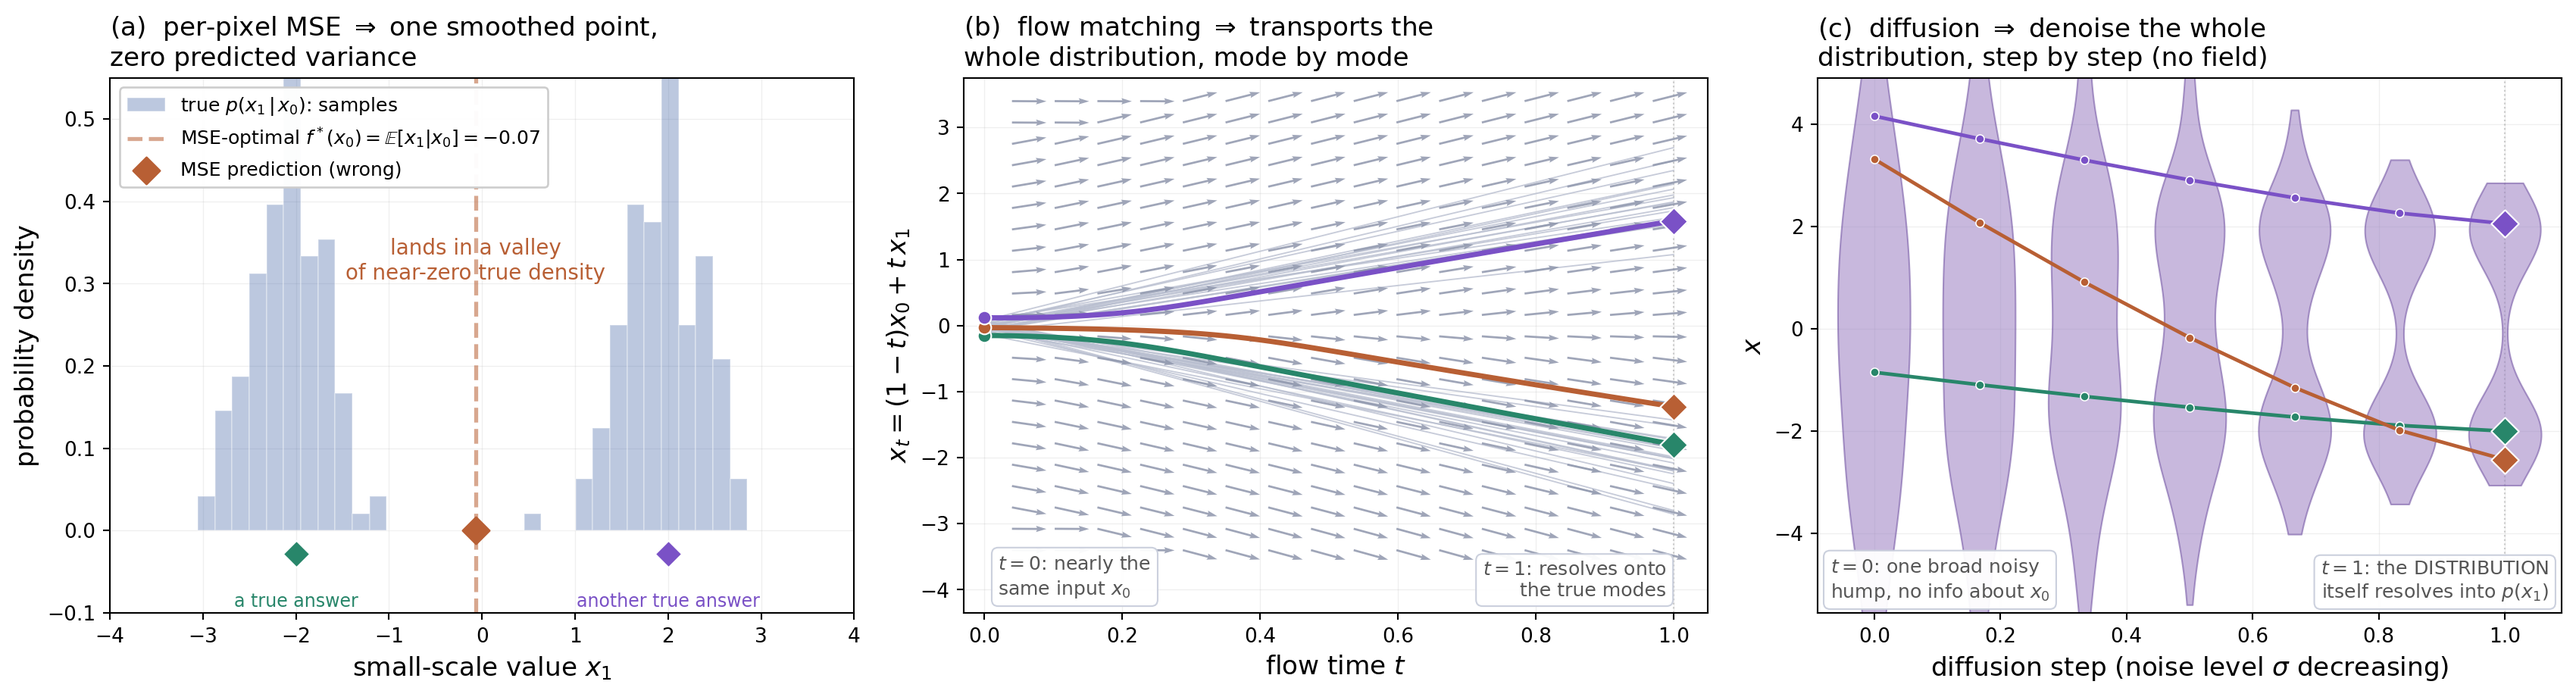
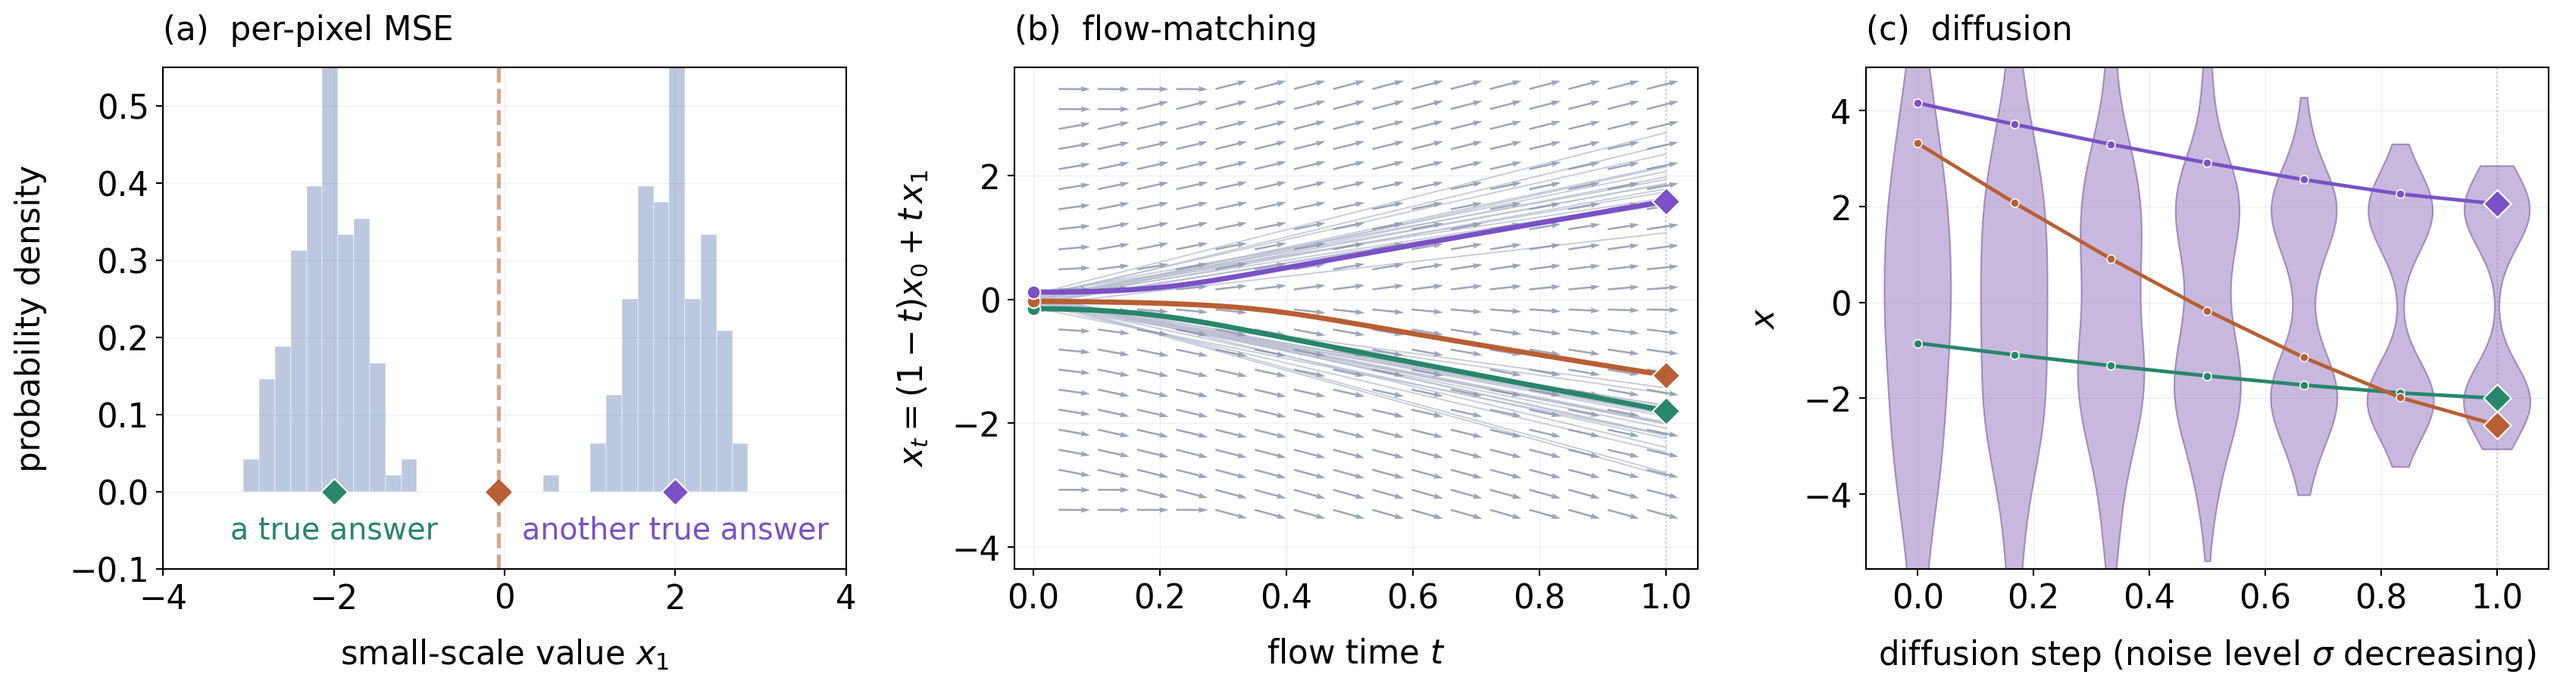
Resized distribution illustration plot

diff --git a/vis/plot_generative_objectives_toy.py b/vis/plot_generative_objectives_toy.py
@@ -1,4 +1,3 @@
-#!/usr/bin/env python3
 """Toy illustration: why per-pixel MSE regression, flow matching, and
 diffusion behave differently on the same one-to-many correction problem.
 
@@ -49,8 +48,11 @@ import matplotlib
 matplotlib.use("Agg")
 import matplotlib.pyplot as plt
 
-FS_AXIS, FS_LEGEND = 13, 9.5
-NOTE_KW = dict(fontsize=9.5, color="#555555",
+FS_AXIS, FS_LEGEND = 16.5, 13
+FS_TICK = FS_AXIS
+LABEL_PAD = 11
+TITLE_PAD = 14
+NOTE_KW = dict(fontsize=15, color="#555555",
                bbox=dict(fc="white", ec="#C9CEDC", lw=0.8,
                          boxstyle="round,pad=0.34", alpha=0.95))
 C_A, C_B = "#B85F34", "#3F63A6"
@@ -75,26 +77,20 @@ def panel_mse(ax, x1):
     mean_pred = x1.mean()
     ax.axvline(mean_pred, color=C_A, lw=2.0, ls="--", alpha=0.55, zorder=1,
                label=fr"MSE-optimal $f^*(x_0)=\mathbb{{E}}[x_1|x_0]={mean_pred:.2f}$")
-    ax.scatter([mean_pred], [0], color=C_A, s=90, zorder=5, marker="D",
+    ax.scatter([mean_pred], [0], color=C_A, s=70, zorder=5, marker="D",
                label="MSE prediction (wrong)")
-    # no leader line: it sat directly on top of the dashed MSE line and read as
-    # a second, solid orange line
-    ax.text(mean_pred, 0.30, "lands in a valley\nof near-zero true density",
-            ha="center", va="bottom", fontsize=10.5, color=C_A, zorder=6)
-    # the two TRUE possible answers -- either is right, their average is not --
-    # placed clearly BELOW the histogram baseline so the markers don't sit
-    # inside the bars' own footprint at y=0
     for mode_x, col in ((-2.0, C_MODE1), (2.0, C_MODE2)):
-        ax.scatter([mode_x], [-0.028], color=col, s=90, zorder=5, marker="D",
+        ax.scatter([mode_x], [0], color=col, s=90, zorder=5, marker="D",
                    edgecolor="white", lw=0.8, clip_on=False)
-    ax.text(-2.0, -0.075, "a true answer", color=C_MODE1, fontsize=9, ha="center", va="top")
-    ax.text(2.0, -0.075, "another true answer", color=C_MODE2, fontsize=9, ha="center", va="top")
-    ax.set_xlabel(r"small-scale value $x_1$", fontsize=FS_AXIS)
-    ax.set_ylabel("probability density", fontsize=FS_AXIS)
-    ax.set_title("(a)  per-pixel MSE $\\Rightarrow$ one smoothed point,\nzero predicted variance",
-                 fontsize=FS_AXIS, loc="left")
+    ax.text(-2.0, -0.03, "a true answer", color=C_MODE1, fontsize=15, ha="center", va="top")
+    ax.text(2.0, -0.03, "another true answer", color=C_MODE2, fontsize=15, ha="center", va="top")
+    ax.set_xlabel(r"small-scale value $x_1$", fontsize=FS_AXIS, labelpad=LABEL_PAD)
+    ax.set_ylabel("probability density", fontsize=FS_AXIS, labelpad=LABEL_PAD)
+    ax.tick_params(axis="both", labelsize=FS_TICK)
+    ax.set_title("(a)  per-pixel MSE",
+                 fontsize=FS_AXIS, loc="left", pad=TITLE_PAD)
     ax.set_xlim(-4, 4); ax.set_ylim(-0.10, 0.55)
-    ax.legend(fontsize=FS_LEGEND, loc="upper left", framealpha=0.97)
+    #ax.legend(fontsize=FS_AXIS, loc="upper left", framealpha=0.97)
     ax.grid(alpha=0.2, lw=0.5); ax.set_axisbelow(True)
 
 
@@ -135,14 +131,11 @@ def panel_flow(ax, rng, x1, N):
         ax.scatter([1], [xs[-1]], color=col, s=95, zorder=5, marker="D", edgecolor="white", lw=0.8)
 
     ax.axvline(1.0, color="#cccccc", lw=0.8, ls=":", zorder=0)
-    ax.text(0.02, -4.15, r"$t=0$: nearly the" + "\nsame input $x_0$",
-            ha="left", va="bottom", zorder=7, **NOTE_KW)
-    ax.text(0.99, -4.15, r"$t=1$: resolves onto" + "\nthe true modes",
-            ha="right", va="bottom", zorder=7, **NOTE_KW)
-    ax.set_xlabel(r"flow time $t$", fontsize=FS_AXIS)
-    ax.set_ylabel(r"$x_t = (1-t)x_0 + t\,x_1$", fontsize=FS_AXIS)
-    ax.set_title("(b)  flow matching $\\Rightarrow$ transports the\nwhole distribution, mode by mode",
-                 fontsize=FS_AXIS, loc="left")
+    ax.set_xlabel(r"flow time $t$", fontsize=FS_AXIS, labelpad=LABEL_PAD)
+    ax.set_ylabel(r"$x_t = (1-t)x_0 + t\,x_1$", fontsize=FS_AXIS, labelpad=LABEL_PAD)
+    ax.tick_params(axis="both", labelsize=FS_TICK)
+    ax.set_title("(b)  flow-matching ",
+                 fontsize=FS_AXIS, loc="left", pad=TITLE_PAD)
     ax.set_xlim(-0.03, 1.05); ax.set_ylim(-4.35, 3.75)
     ax.grid(alpha=0.2, lw=0.5); ax.set_axisbelow(True)
 
@@ -201,14 +194,11 @@ def panel_diffusion(ax, rng, x1, N):
                    edgecolor="white", lw=0.8)
 
     ax.axvline(1.0, color="#cccccc", lw=0.8, ls=":", zorder=0)
-    ax.text(-0.07, -5.35, "$t=0$: one broad noisy\nhump, no info about $x_0$",
-            ha="left", va="bottom", zorder=7, **NOTE_KW)
-    ax.text(1.07, -5.35, "$t=1$: the DISTRIBUTION\nitself resolves into $p(x_1)$",
-            ha="right", va="bottom", zorder=7, **NOTE_KW)
-    ax.set_xlabel(r"diffusion step (noise level $\sigma$ decreasing)", fontsize=FS_AXIS)
-    ax.set_ylabel(r"$x$", fontsize=FS_AXIS)
-    ax.set_title("(c)  diffusion $\\Rightarrow$ denoise the whole\ndistribution, step by step (no field)",
-                 fontsize=FS_AXIS, loc="left")
+    ax.set_xlabel(r"diffusion step (noise level $\sigma$ decreasing)", fontsize=FS_AXIS, labelpad=LABEL_PAD)
+    ax.set_ylabel(r"$x$", fontsize=FS_AXIS, labelpad=LABEL_PAD)
+    ax.tick_params(axis="both", labelsize=FS_TICK)
+    ax.set_title("(c)  diffusion",
+                 fontsize=FS_AXIS, loc="left", pad=TITLE_PAD)
     ax.set_xlim(-0.09, 1.09); ax.set_ylim(-5.55, 4.9)
     ax.grid(alpha=0.2, lw=0.5); ax.set_axisbelow(True)
 
@@ -231,7 +221,7 @@ def main():
     panel_mse(axA, x1)
     panel_flow(axB, rng, x1, a.n_samples)
     panel_diffusion(axC, rng, x1, a.n_samples)
-    fig.tight_layout()
+    fig.tight_layout(pad=1.4, w_pad=1.8, h_pad=1.6)
 
     out = out_dir / "generative_objectives_toy.png"
     fig.savefig(out, dpi=190, bbox_inches="tight"); plt.close(fig)
